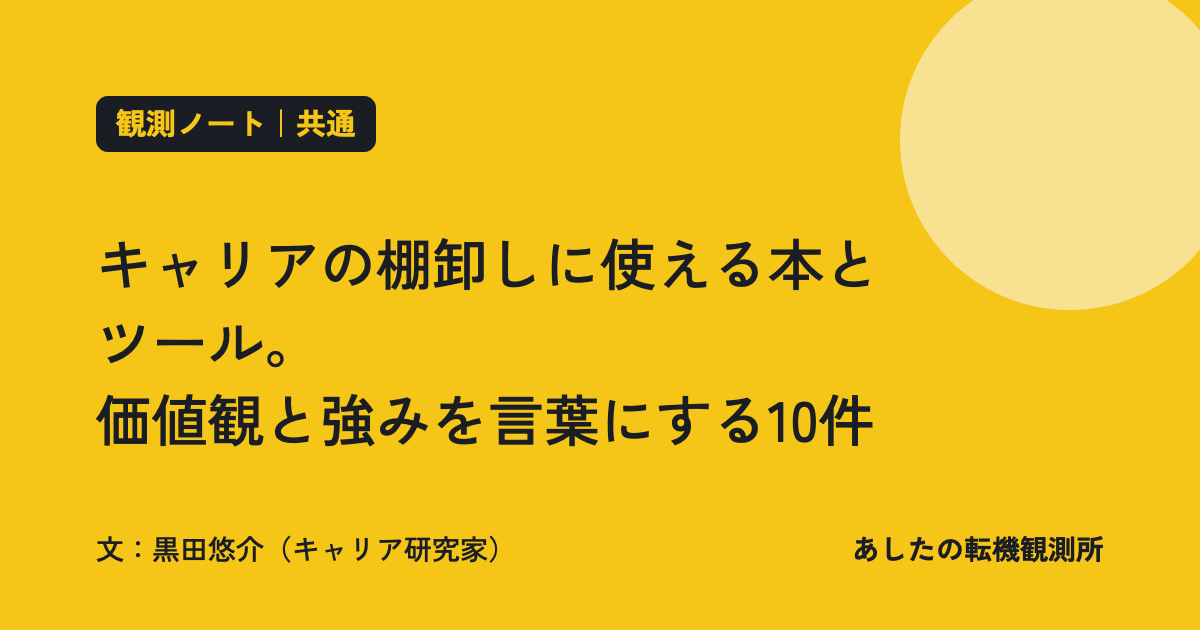
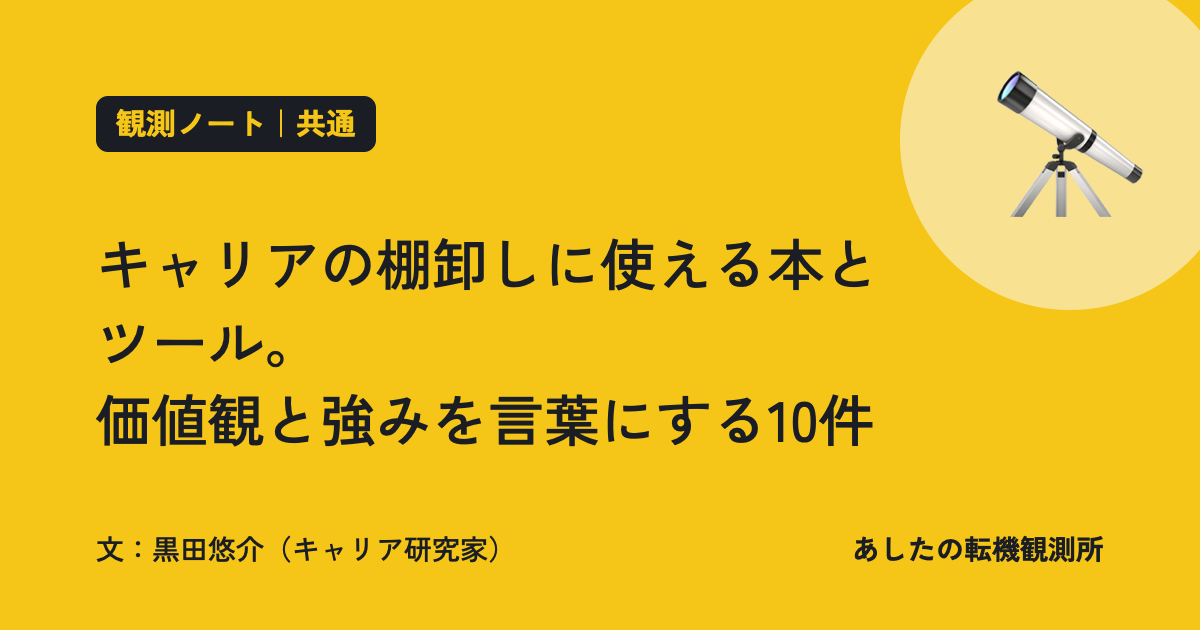
【デザイン】「共通」の絵文字を🔭にする（観測ノートの右上と共有画像、トップの「全般」）
「共通」には絵文字の設定がなく、共通の観測ノートだけ右上の円が空いていた（黒田さんの指摘）。
config/tenki.json の「共通」に🔭を足し、キャリアの棚卸しのノートの共有画像を作り直した。
トップの「転機から探す」の「全般」のボタンにも同じ絵文字を出す。

Changed region(s): [[0.8325, 0.1206, 0.9558, 0.3619]]

diff --git a/sitegen/pages.py b/sitegen/pages.py
@@ -41,7 +41,7 @@ def build_home(listed, ctx):
         for t in TENKI if t["past"] and ctx["tenki_count"][t["name"]])
     common_t = next((t for t in TENKI if t["name"] == COMMON), None)
     if common_t and ctx["tenki_count"][COMMON]:
-        tenki_links += '<li><a href="%s">全般%s</a></li>' % (tenki_url(common_t), num(ctx["tenki_count"][COMMON]))
+        tenki_links += '<li><a href="%s">%s全般%s</a></li>' % (tenki_url(common_t), emoji(common_t.get("emoji", "")), num(ctx["tenki_count"][COMMON]))
     kind_links = "".join(
         '<li><a href="%s">%s%s%s</a></li>' % (e(search_url(kind=k)), kind_emoji(k), e(k), num(len(g)))
         for k, g in by_kind(listed))

diff --git a/README.md b/README.md
@@ -108,6 +108,7 @@ https://ashitano-tenki.github.io/
     - 15：題名と見出しを、BudouX で文節に分けて `<wbr>` を入れ、keep-all で折り返す（Safari・Firefox でも言葉の途中で折り返さない）。BudouX は中黒（・）で切らないので、中黒のあとも切れ目にする。JS で作るカードは search.json の `wb`（切れ目の位置）を使う。BudouX は毎朝の更新で .venv に入れる（`budoux==0.7.0`）。入らなかったときは文節に分けずに作る。14 と 15 は一緒に入れる（約物を span で包むと Chrome の auto-phrase が効かなくなるため）。
     - 16（A）：観測ノートの記事で、広い画面では右に目次を固定し、いま読んでいる節に空色の線。狭い画面では本文の上に畳んだ目次（`sitegen/notes.py` の note_toc()）。
 - 不採用：8 カードの画像と題名が紹介ページへ移る（ページをまたぐ View Transitions）／12 件数の数字の動きを変える（今の数え上げのまま）／13 転機の流れを線でつないだ図にする。
+- 「共通（どの転機にも）」の絵文字は 🔭（2026-11-15 黒田さん。観測ノートの右上と共有画像、トップの「全般」に出る。`config/tenki.json`）。
 - 動きはすべて `@media (prefers-reduced-motion: no-preference)` の中に書き、スクロール連動は `@supports (animation-timeline: …)` で囲む。止まった姿で全部見えていること（JS がないとき・非対応のブラウザでも）。
 
 ## ファイルの役割
